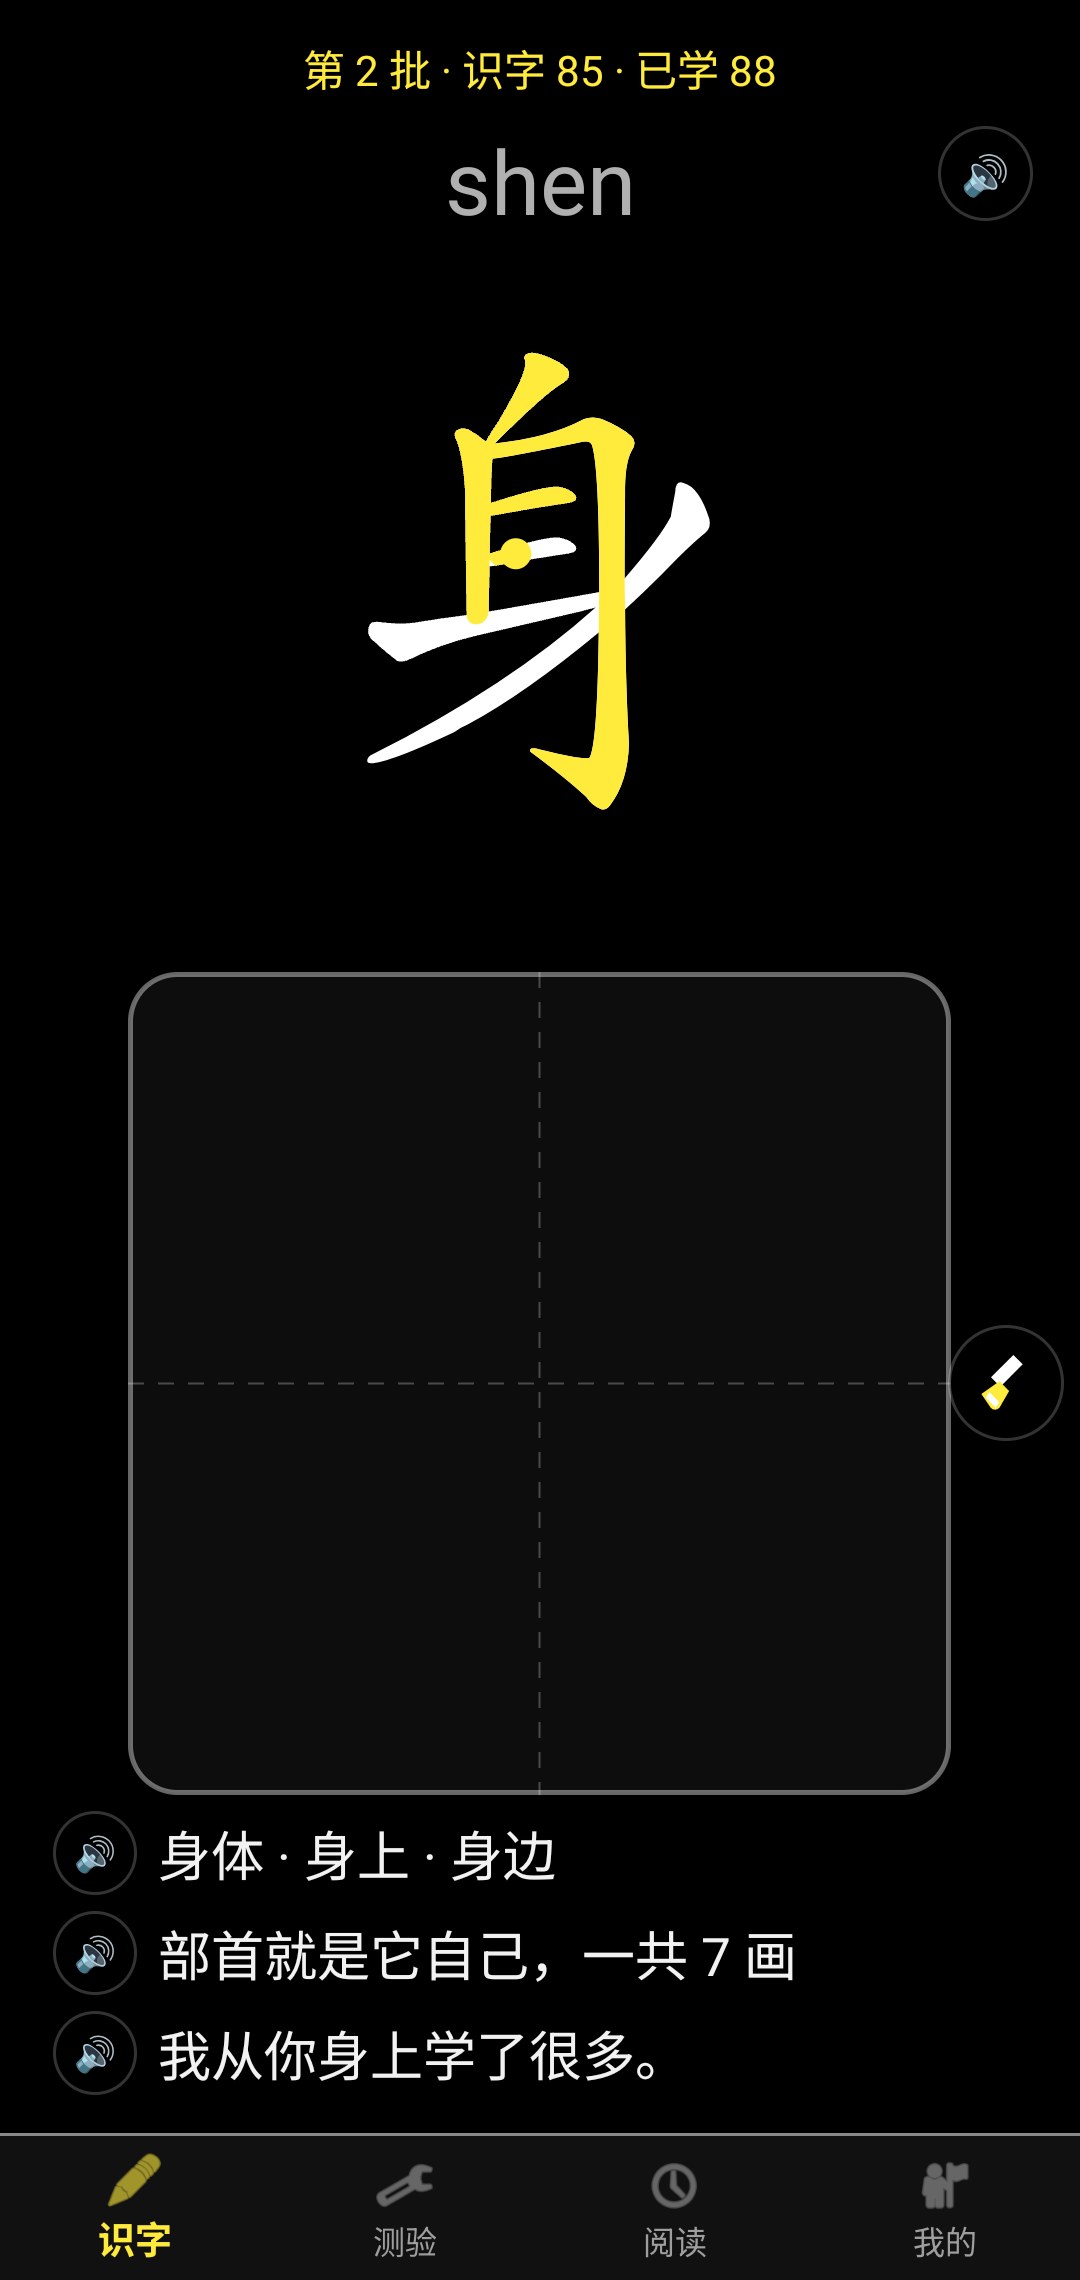
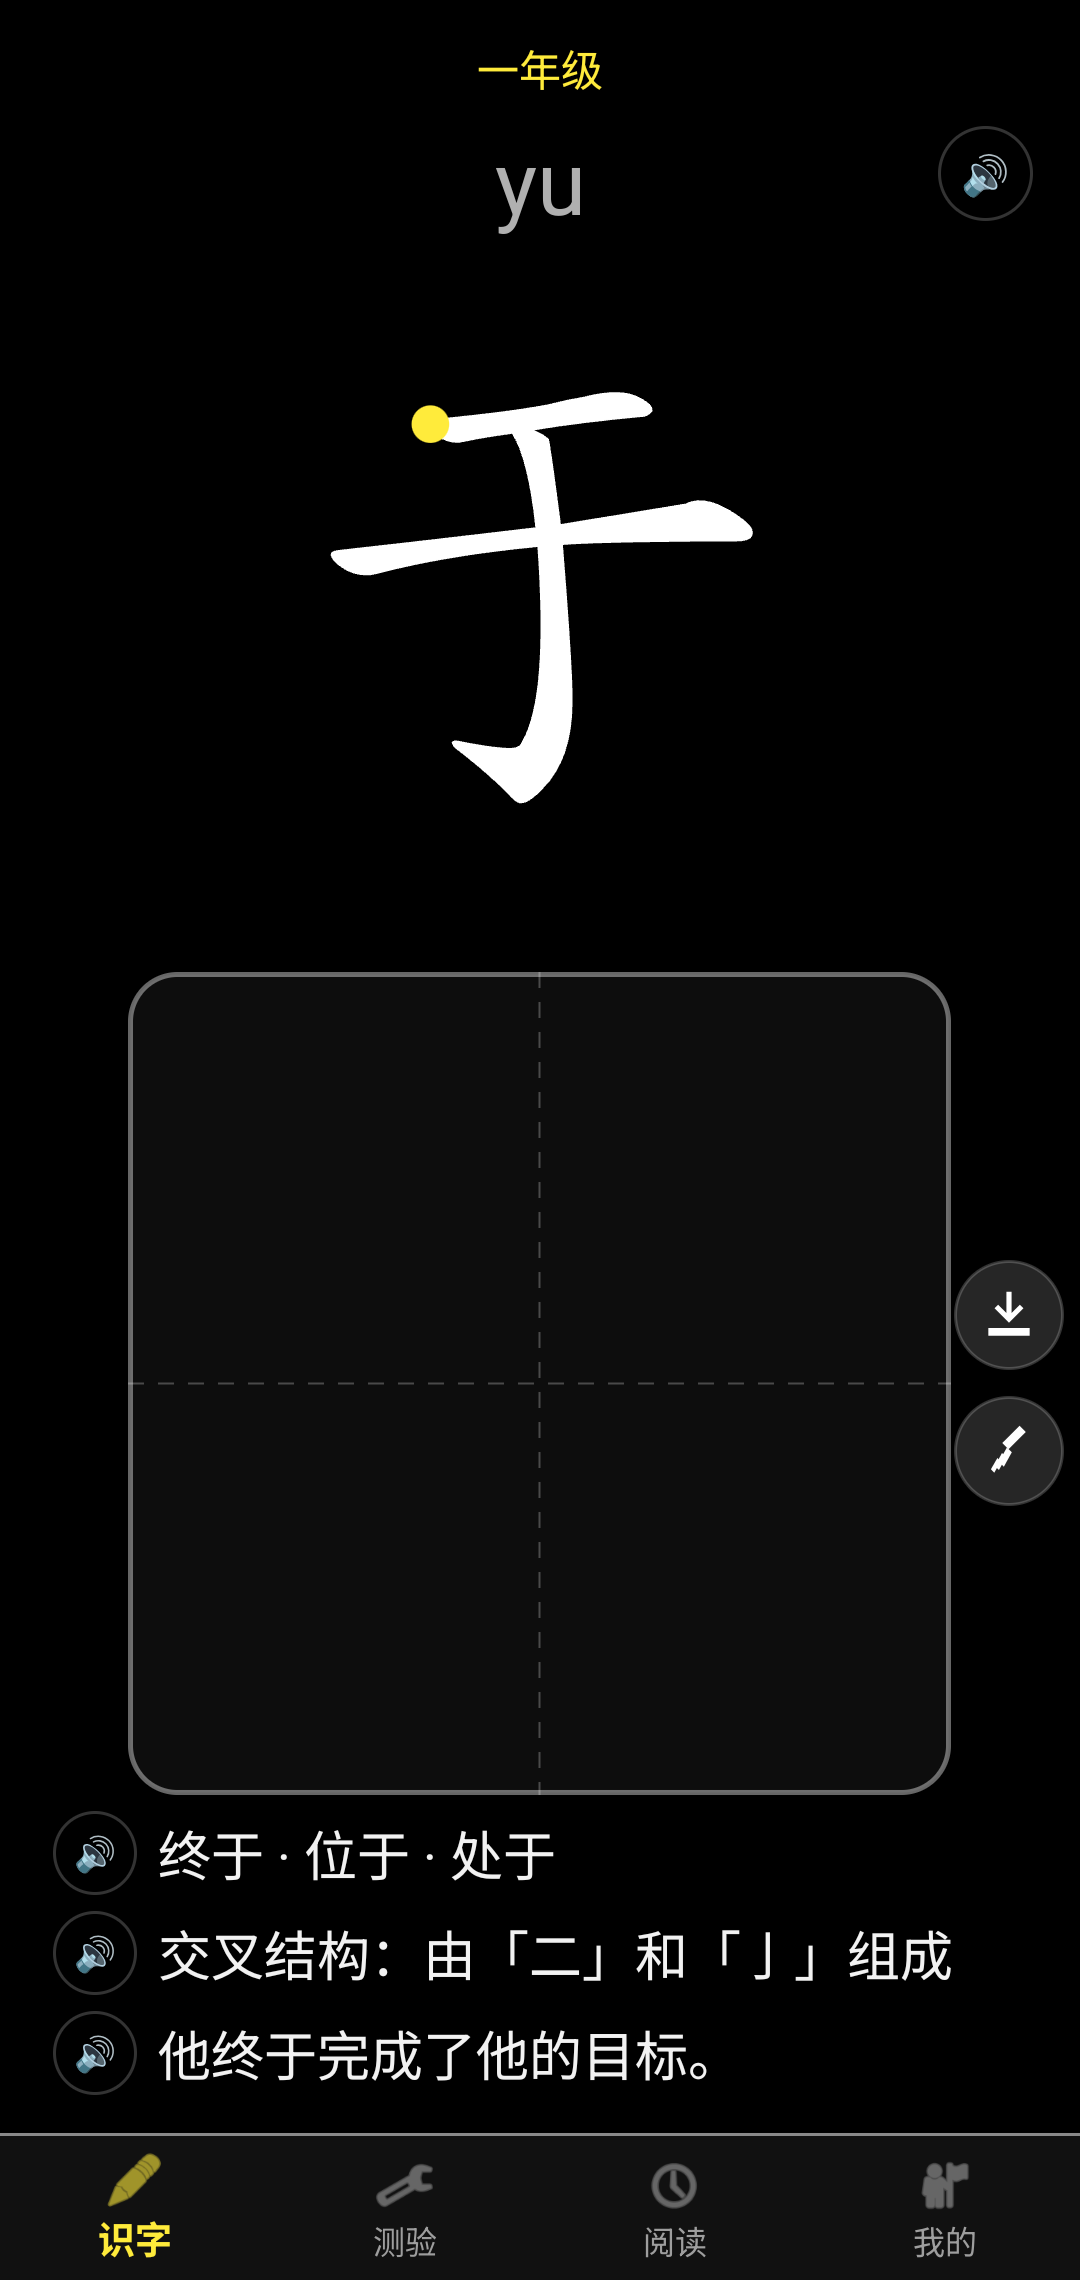
首页只显示当前年级；练写区新增“保存成图片”并优化擦除按钮；未识字表改为错字集；README 截图更新、协议联系邮箱更新

diff --git a/app/src/main/java/com/easyword/learn/utils/WritingExporter.java b/app/src/main/java/com/easyword/learn/utils/WritingExporter.java
@@ -1,0 +1,121 @@
+package com.easyword.learn.utils;
+
+import android.Manifest;
+import android.app.Activity;
+import android.content.ContentResolver;
+import android.content.ContentValues;
+import android.content.Context;
+import android.content.pm.PackageManager;
+import android.graphics.Bitmap;
+import android.graphics.Canvas;
+import android.graphics.Color;
+import android.media.MediaScannerConnection;
+import android.net.Uri;
+import android.os.Build;
+import android.os.Environment;
+import android.provider.MediaStore;
+import android.view.View;
+import android.widget.Toast;
+
+import java.io.File;
+import java.io.FileOutputStream;
+import java.io.IOException;
+import java.io.OutputStream;
+import java.text.SimpleDateFormat;
+import java.util.Date;
+import java.util.Locale;
+
+/**
+ * 把练写框里的手写内容导出成 PNG，存到手机相册的「轻松识字」相册里。
+ *
+ * <p>Android 10 以上走 MediaStore（不需要权限）；Android 9 及以下需要
+ * 存储权限，这里会就地申请一次，让用户点第二次完成保存。</p>
+ */
+public final class WritingExporter {
+
+    private static final String ALBUM = "轻松识字";
+    private static final int REQ_STORAGE = 1001;
+
+    private WritingExporter() {
+    }
+
+    /** 把手写区域存成图片。 */
+    public static void save(Activity activity, View drawingView, String word) {
+        if (activity == null || drawingView == null
+                || drawingView.getWidth() <= 0 || drawingView.getHeight() <= 0) {
+            return;
+        }
+        if (Build.VERSION.SDK_INT < Build.VERSION_CODES.Q
+                && activity.checkSelfPermission(Manifest.permission.WRITE_EXTERNAL_STORAGE)
+                != PackageManager.PERMISSION_GRANTED) {
+            activity.requestPermissions(
+                    new String[]{Manifest.permission.WRITE_EXTERNAL_STORAGE}, REQ_STORAGE);
+            Toast.makeText(activity, "请允许存储权限，再点一次保存", Toast.LENGTH_LONG).show();
+            return;
+        }
+
+        Bitmap bitmap = render(drawingView);
+        String name = fileName(word);
+        try {
+            write(activity, bitmap, name);
+            Toast.makeText(activity, "已存到相册：" + name, Toast.LENGTH_LONG).show();
+        } catch (Exception e) {
+            Toast.makeText(activity, "保存失败：" + e.getMessage(), Toast.LENGTH_LONG).show();
+        } finally {
+            bitmap.recycle();
+        }
+    }
+
+    /** 练写框连同笔迹一起画到黑底上（黄色笔迹看得最清楚）。 */
+    private static Bitmap render(View view) {
+        Bitmap bitmap = Bitmap.createBitmap(view.getWidth(), view.getHeight(),
+                Bitmap.Config.ARGB_8888);
+        Canvas canvas = new Canvas(bitmap);
+        canvas.drawColor(Color.BLACK);
+        view.draw(canvas);
+        return bitmap;
+    }
+
+    private static void write(Context context, Bitmap bitmap, String name) throws IOException {
+        ContentResolver resolver = context.getContentResolver();
+        if (Build.VERSION.SDK_INT >= Build.VERSION_CODES.Q) {
+            ContentValues values = new ContentValues();
+            values.put(MediaStore.Images.Media.DISPLAY_NAME, name);
+            values.put(MediaStore.Images.Media.MIME_TYPE, "image/png");
+            values.put(MediaStore.Images.Media.RELATIVE_PATH,
+                    Environment.DIRECTORY_PICTURES + "/" + ALBUM);
+            Uri uri = resolver.insert(MediaStore.Images.Media.EXTERNAL_CONTENT_URI, values);
+            if (uri == null) {
+                throw new IOException("相册不可用");
+            }
+            try (OutputStream out = resolver.openOutputStream(uri)) {
+                if (out == null || !bitmap.compress(Bitmap.CompressFormat.PNG, 100, out)) {
+                    throw new IOException("写入失败");
+                }
+            }
+            return;
+        }
+        File dir = new File(
+                Environment.getExternalStoragePublicDirectory(Environment.DIRECTORY_PICTURES),
+                ALBUM);
+        if (!dir.exists() && !dir.mkdirs()) {
+            throw new IOException("无法创建相册目录");
+        }
+        File file = new File(dir, name);
+        try (OutputStream out = new FileOutputStream(file)) {
+            if (!bitmap.compress(Bitmap.CompressFormat.PNG, 100, out)) {
+                throw new IOException("写入失败");
+            }
+        }
+        MediaScannerConnection.scanFile(context,
+                new String[]{file.getAbsolutePath()}, new String[]{"image/png"}, null);
+    }
+
+    /** 文件名带上练的那个字，方便日后翻看。 */
+    private static String fileName(String word) {
+        String stamp = new SimpleDateFormat("yyyyMMdd_HHmmss", Locale.CHINA)
+                .format(new Date());
+        String ch = (word == null || word.trim().isEmpty()) ? "" : word.trim() + "_";
+        return "轻松识字_" + ch + stamp + ".png";
+    }
+}

diff --git a/app/src/main/java/com/easyword/learn/adapter/WordPagerAdapter.java b/app/src/main/java/com/easyword/learn/adapter/WordPagerAdapter.java
@@ -54,6 +54,9 @@ public class WordPagerAdapter extends ListAdapter<Word, WordPagerAdapter.CardVie
         /** 右滑/清空按钮：擦除笔迹。 */
         void onClearStroke(Word word);
 
+        /** 保存按钮：把手写内容存成图片。 */
+        void onSaveDrawing(android.view.View drawingView, Word word);
+
         /** 播放按钮：朗读一段文本（字 / 词组 / 顺口溜 / 场景）。 */
         void onSpeak(String text);
     }
@@ -337,6 +340,12 @@ public class WordPagerAdapter extends ListAdapter<Word, WordPagerAdapter.CardVie
         binding.btnClear.setOnClickListener(v -> {
             binding.drawingView.clear();
             clearStrokeAt(holder);
+        });
+        binding.btnSave.setOnClickListener(v -> {
+            Word word = wordOf(holder);
+            if (word != null) {
+                cardListener.onSaveDrawing(binding.drawingView, word);
+            }
         });
 
         binding.btnPlayWord.setOnClickListener(v ->

diff --git a/app/src/main/java/com/easyword/learn/ui/HomeFragment.java b/app/src/main/java/com/easyword/learn/ui/HomeFragment.java
@@ -116,8 +116,9 @@ public class HomeFragment extends Fragment implements WordPagerAdapter.CardListe
         if (stats == null) {
             return;
         }
-        binding.textBatchHeader.setText("第 " + stats.currentBatch + " 批 · 识字 "
-                + stats.known + " · 已学 " + stats.learned);
+        // 顶部只显示当前学到的最高年级
+        binding.textBatchHeader.setText(
+                com.easyword.learn.data.TestCatalog.batchName(stats.currentBatch));
     }
 
     @Override
@@ -198,6 +199,12 @@ public class HomeFragment extends Fragment implements WordPagerAdapter.CardListe
     @Override
     public void onClearStroke(Word word) {
         VibrateUtil.vibrate(requireContext(), 20);
+    }
+
+    @Override
+    public void onSaveDrawing(android.view.View drawingView, Word word) {
+        com.easyword.learn.utils.WritingExporter.save(
+                requireActivity(), drawingView, word.getWord());
     }
 
     @Override

diff --git a/app/src/main/java/com/easyword/learn/ui/ProfileFragment.java b/app/src/main/java/com/easyword/learn/ui/ProfileFragment.java
@@ -63,8 +63,8 @@ public class ProfileFragment extends Fragment {
                 () -> openList(WordViewModel.TYPE_LEARNED, "已学字表"));
         knownValue = addRow(binding.rowBoxLists, "✅", "已识字表", "",
                 () -> openList(WordViewModel.TYPE_KNOWN, "已识字表"));
-        unknownValue = addRow(binding.rowBoxLists, "❓", "未识字表", "",
-                () -> openList(WordViewModel.TYPE_UNKNOWN, "未识字表"));
+        unknownValue = addRow(binding.rowBoxLists, "❓", "错字集", "",
+                () -> openList(WordViewModel.TYPE_UNKNOWN, "错字集"));
         favoriteValue = addRow(binding.rowBoxLists, "⭐", "已收藏字表", "",
                 () -> openList(WordViewModel.TYPE_FAVORITE, "已收藏字表"));
 

diff --git a/app/src/main/java/com/easyword/learn/ui/CardActions.java b/app/src/main/java/com/easyword/learn/ui/CardActions.java
@@ -42,6 +42,14 @@ public class CardActions implements WordPagerAdapter.CardListener {
     }
 
     @Override
+    public void onSaveDrawing(android.view.View drawingView, Word word) {
+        if (context instanceof android.app.Activity) {
+            com.easyword.learn.utils.WritingExporter.save(
+                    (android.app.Activity) context, drawingView, word.getWord());
+        }
+    }
+
+    @Override
     public void onSpeak(String text) {
         if (text == null || text.trim().isEmpty()) {
             return;

diff --git a/app/src/main/java/com/easyword/learn/ui/StudyPagerActivity.java b/app/src/main/java/com/easyword/learn/ui/StudyPagerActivity.java
@@ -154,6 +154,11 @@ public class StudyPagerActivity extends AppCompatActivity implements WordPagerAd
     }
 
     @Override
+    public void onSaveDrawing(android.view.View drawingView, Word word) {
+        com.easyword.learn.utils.WritingExporter.save(this, drawingView, word.getWord());
+    }
+
+    @Override
     public void onSpeak(String text) {
         tts.speak(text);
     }

diff --git a/README.md b/README.md
@@ -123,7 +123,7 @@ app/src/main/java/com/easyword/learn/
 - ✅ 个人学习、家庭教育、课堂与公益教学等**非商业**用途：免费使用、修改、分发（须保留版权声明与许可）
 - ❌ 任何**商业用途**（销售、内置到付费产品、商业培训、SaaS、广告变现等）：**必须事先取得著作权人书面授权**
 
-详见 [LICENSE](LICENSE)。商业授权请联系仓库 Issue 或 `lijie@jcsk100.com`。
+详见 [LICENSE](LICENSE)。商业授权请联系仓库 Issue 或 `907203644@qq.com`。
 
 ---
 
